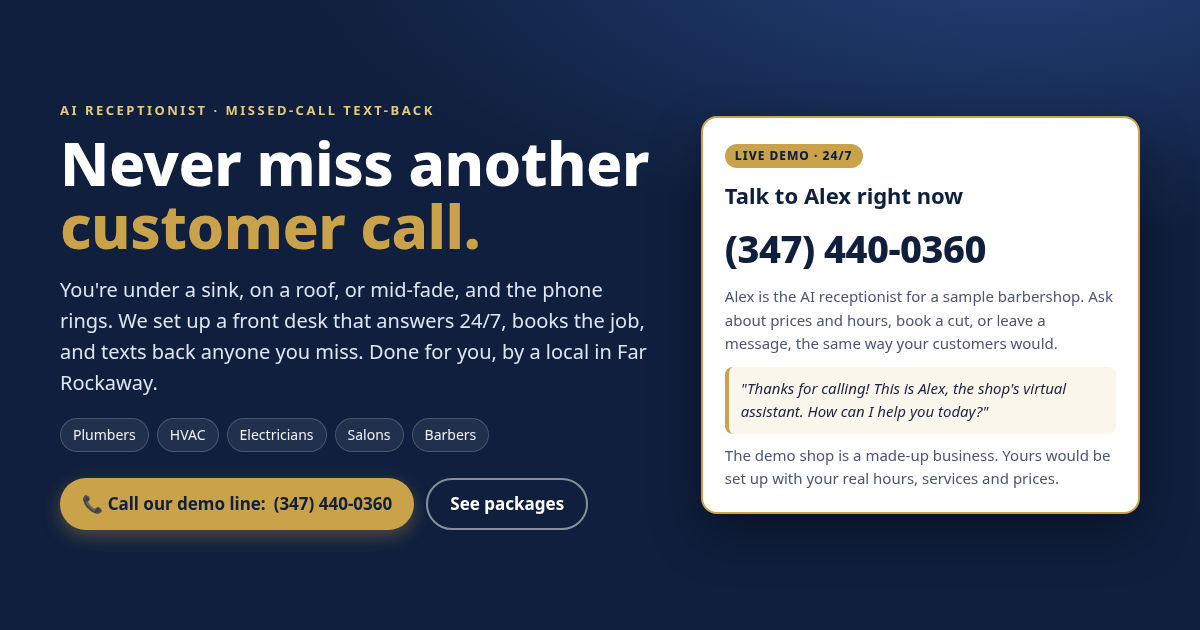
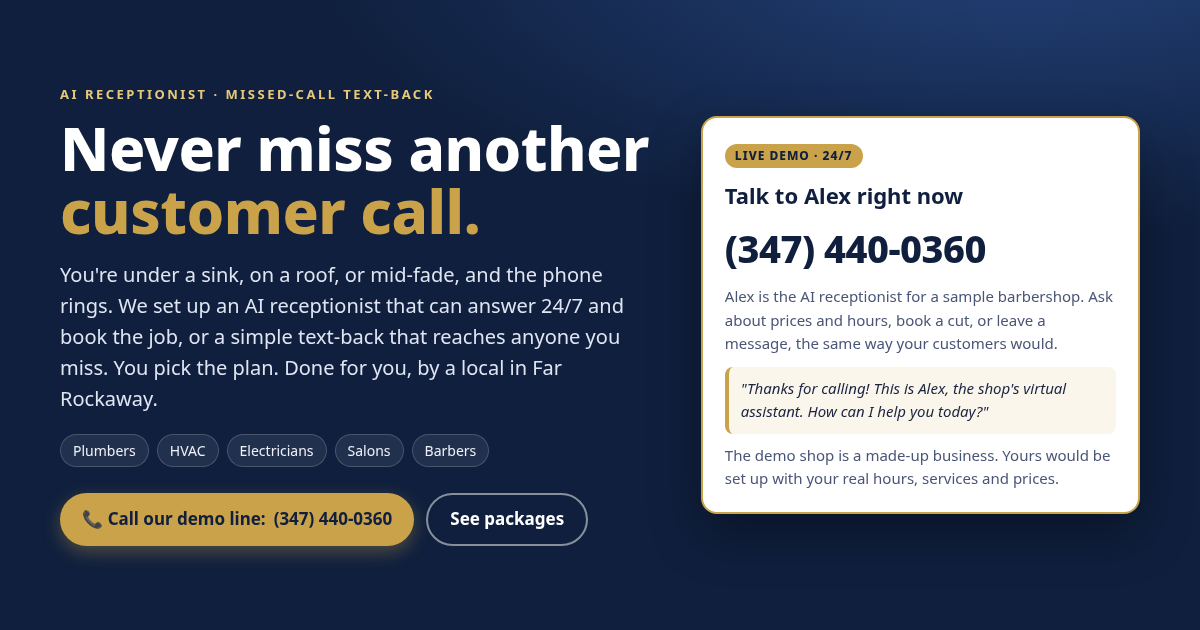
Clarify which plans answer calls 24/7

Changed region(s): [[0.0308, 0.4222, 0.555, 0.7238], [0.0308, 0.1206, 0.555, 0.3921], [0.0308, 0.754, 0.4933, 0.9048]]

diff --git a/index.html b/index.html
@@ -13,7 +13,7 @@
 <meta property="og:type" content="website">
 <meta property="og:site_name" content="JS Front Desk">
 <meta property="og:title" content="Never miss another customer call | JS Front Desk">
-<meta property="og:description" content="AI receptionist + missed-call text-back for local trades, salons and barbers. Answers 24/7, books jobs, texts back missed callers. Hear the demo: (347) 440-0360.">
+<meta property="og:description" content="AI receptionist + missed-call text-back for local trades, salons and barbers. Missed-call text-back from $297/mo, or a 24/7 AI receptionist that books jobs. Hear the demo: (347) 440-0360.">
 <meta property="og:url" content="https://jsfrontdesk.com/">
 <meta property="og:image" content="https://jsfrontdesk.com/og-image.png">
 <meta property="og:image:width" content="1200">
@@ -177,7 +177,7 @@ footer a{color:#dfe5f2}
   <div>
    <div class="eyebrow"><span class="nw">AI Receptionist</span> · <span class="nw">Missed-Call Text-Back</span></div>
    <h1>Never miss another <span>customer call.</span></h1>
-   <p class="lead">You're under a sink, on a roof, or mid-fade, and the phone rings. We set up a front desk that answers 24/7, books the job, and texts back anyone you miss. Done for you, by a local in Far Rockaway.</p>
+   <p class="lead">You're under a sink, on a roof, or mid-fade, and the phone rings. We set up an AI receptionist that can answer 24/7 and book the job, or a simple text-back that reaches anyone you miss. You pick the plan. Done for you, by a local in Far Rockaway.</p>
    <ul class="who" aria-label="Who it's for">
     <li>Plumbers</li><li>HVAC</li><li>Electricians</li><li>Salons</li><li>Barbers</li>
    </ul>
@@ -217,9 +217,9 @@ footer a{color:#dfe5f2}
   <div class="kicker">How it works</div>
   <h2 class="t">Your phone, covered around the clock.</h2>
   <div class="steps">
-   <div class="step"><div class="n">1</div><h3>AI answers 24/7</h3><p>When you can't get to the phone, your AI receptionist picks up in a friendly, natural voice. It answers questions about your hours, services and prices, in English or Spanish.</p></div>
+   <div class="step"><div class="n">1</div><h3>AI answers 24/7</h3><p>On the AI Receptionist and Front Desk Pro plans: when you can't get to the phone, your AI receptionist picks up in a friendly, natural voice. It answers questions about your hours, services and prices, in English or Spanish.</p></div>
    <div class="step"><div class="n">2</div><h3>Books jobs or takes a message</h3><p>It books appointments into your calendar, takes the caller's name, address and problem, and texts you right away when something is urgent.</p></div>
-   <div class="step"><div class="n">3</div><h3>Texts back missed calls</h3><p>Anyone who hangs up gets a friendly text within seconds, with your booking link, so the conversation keeps going instead of going to a competitor.</p></div>
+   <div class="step"><div class="n">3</div><h3>Texts back missed calls</h3><p>Included in every plan. Anyone who hangs up gets a friendly text within seconds, with your booking link, so the conversation keeps going instead of going to a competitor.</p></div>
   </div>
   <h3 style="color:var(--navy);margin-top:40px;font-size:20px">Getting started is simple</h3>
   <ol class="onboard">
@@ -250,6 +250,7 @@ footer a{color:#dfe5f2}
     <div class="price">$297<small>/mo + setup</small></div>
     <div class="best">Text-back so no caller slips away</div>
     <ul><li>Missed-call text-back</li><li>Google review requests</li><li>Shared inbox + mobile app</li></ul>
+    <p class="small" style="margin:0 0 14px">Texts back the callers you miss. It doesn't answer calls. For an AI voice that picks up 24/7, see AI Receptionist.</p>
     <a class="btn btn-outline" href="#contact">Get started</a>
    </div>
    <div class="tier rec">
